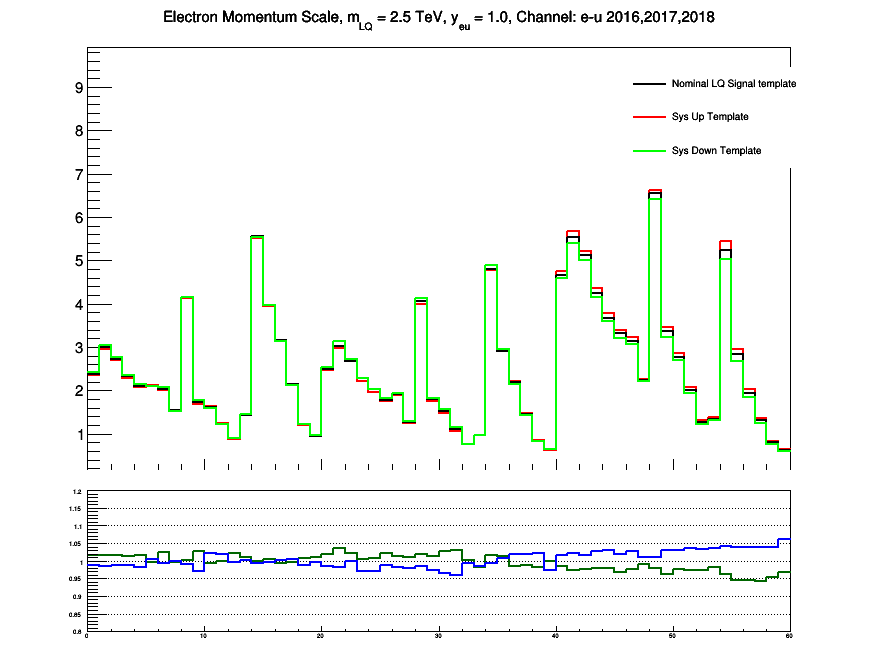
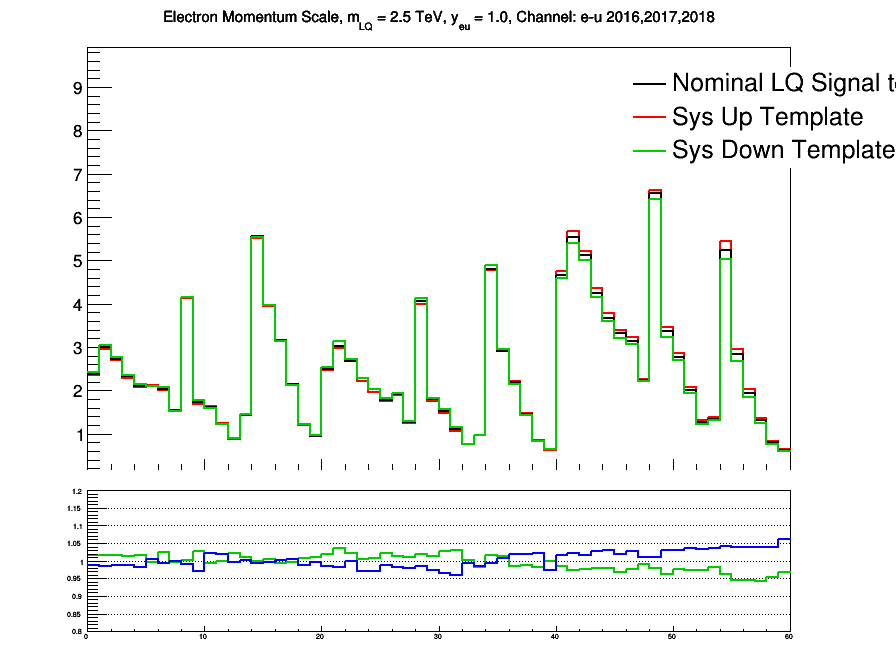
increased legend and axis sizes

diff --git a/plots/Fitting/LQ_sys_check.C b/plots/Fitting/LQ_sys_check.C
@@ -160,7 +160,7 @@ void LQ_sys_check(){
                 
                 h1_mumu_sys_up->SetLineColor(kRed);
                 h1_mumu_sys_up->SetLineWidth(2);
-                h1_mumu_sys_down->SetLineColor(kGreen);
+                h1_mumu_sys_down->SetLineColor(kGreen+1);
                 h1_mumu_sys_down->SetLineWidth(2);
                 
                 if(year==2016){
@@ -278,7 +278,7 @@ void LQ_sys_check(){
 
             h1_elel_sys_up->SetLineColor(kRed);
             h1_elel_sys_up->SetLineWidth(2);
-            h1_elel_sys_down->SetLineColor(kGreen);
+            h1_elel_sys_down->SetLineColor(kGreen+1);
             h1_elel_sys_down->SetLineWidth(2);
 
             if(year==2016){
@@ -370,12 +370,14 @@ if(do_muons){
     pad1->cd();
     h1_mumu_sys_up_comb->SetMaximum(h1_mumu_sys_up_comb->GetMaximum()*1.5);
     h1_mumu_sys_up_comb->SetTitle(mu_title);
+    h1_mumu_sys_up_comb->GetYaxis()->SetLabelSize(0.04);
     h1_mumu_sys_up_comb->Draw("hist");
     h1_mumu_plain_comb->Draw("hist same");
     h1_mumu_sys_down_comb->Draw("hist same");
 
     gStyle->SetLegendBorderSize(0);
     TLegend *leg1 = new TLegend(0.7, 0.75, 0.9, 0.9);
+    leg1->SetTextSize(0.04);
     leg1->AddEntry(h1_mumu_plain_comb, "Nominal LQ Signal template", "l");
     leg1->AddEntry(h1_mumu_sys_up_comb, "Sys Up Template", "l");
     leg1->AddEntry(h1_mumu_sys_down_comb, "Sys Down Template", "l");
@@ -403,12 +405,14 @@ if(do_muons){
     ratio_down->SetMinimum(0.8);
     ratio_down->SetMaximum(1.2);
     ratio_down->SetTitle("");
-    ratio_down->SetLineColor(kGreen+3);
+    ratio_down->SetLineColor(kGreen+1);
+    ratio_down->GetXaxis()->SetLabelSize(0.04);
+    ratio_down->GetYaxis()->SetLabelSize(0.04);
     ratio_down->Draw("hist");
            // ratio_down->SetMarkerStyle(21);
     ratio_up->SetLineColor(kBlue);
     ratio_up->Draw("hist same");
-
+    
     c_mumu1->cd();
 
     if(do_bkg){
@@ -453,12 +457,14 @@ if(do_electrons){
     pad1->cd();
     h1_elel_sys_up_comb->SetMaximum(h1_elel_sys_up_comb->GetMaximum()*1.5);
     h1_elel_sys_up_comb->SetTitle(el_title);
+    h1_elel_sys_up_comb->GetYaxis()->SetLabelSize(0.04);
     h1_elel_sys_up_comb->Draw("hist");
     h1_elel_plain_comb->Draw("hist same");
     h1_elel_sys_down_comb->Draw("hist same");
 
     gStyle->SetLegendBorderSize(0);
     TLegend *leg1 = new TLegend(0.7, 0.75, 0.9, 0.9);
+    leg1->SetTextSize(0.04);
     leg1->AddEntry(h1_elel_plain_comb, "Nominal LQ Signal template", "l");
     leg1->AddEntry(h1_elel_sys_up_comb, "Sys Up Template", "l");
     leg1->AddEntry(h1_elel_sys_down_comb, "Sys Down Template", "l");
@@ -483,7 +489,9 @@ if(do_electrons){
     ratio_down->SetMinimum(0.8);
     ratio_down->SetMaximum(1.2);
     ratio_down->SetTitle("");
-    ratio_down->SetLineColor(kGreen+3);
+    ratio_down->SetLineColor(kGreen+1);
+    ratio_down->GetXaxis()->SetLabelSize(0.04);
+    ratio_down->GetYaxis()->SetLabelSize(0.04);
     ratio_down->Draw("hist");
            // ratio_down->SetMarkerStyle(21);
     ratio_up->SetLineColor(kBlue);
